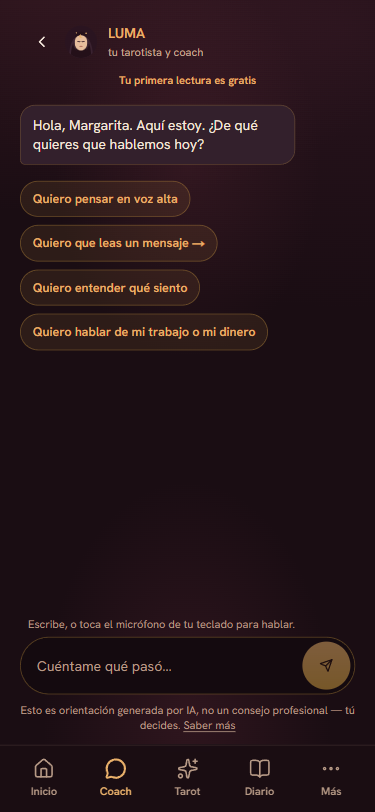
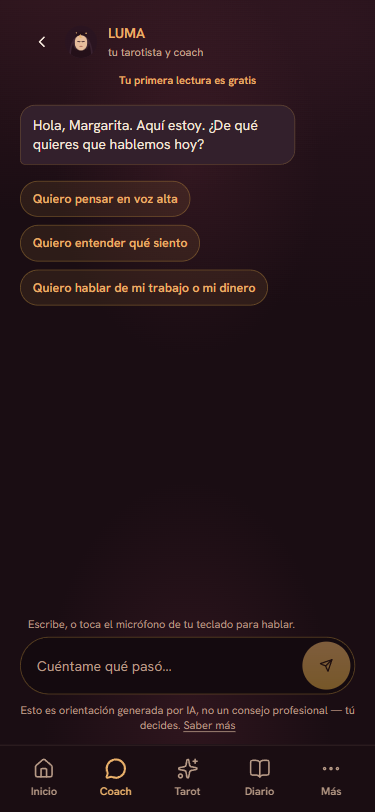
fix(coach): quitar la frase 'Quiero que leas un mensaje' que repetía Descifrar

Changed region(s): [[0.088, 0.2771, 0.704, 0.431], [0.704, 0.3387, 0.7333, 0.3695]]

diff --git a/lib/coach-saludo.ts b/lib/coach-saludo.ts
@@ -21,7 +21,6 @@ const GENERICA: ApeturaCoach = {
   saludo: 'Aquí estoy. ¿De qué quieres que hablemos hoy?',
   arranques: [
     'Quiero pensar en voz alta',
-    { texto: 'Quiero que leas un mensaje', href: '/app/descifrar' },
     'Quiero entender qué siento',
     'Quiero hablar de mi trabajo o mi dinero',
   ],

diff --git a/ESTADO.md b/ESTADO.md
@@ -1051,3 +1051,5 @@ sabemos / qué observamos / posible riesgo / pregunta para ti / qué podrías re
 🔄 2026-10-15: Mapa de poder — se quitó el aviso "Hemos ampliado tu mapa" (solo la dueña tenía mapa). Un mapa antiguo se trata como sin calcular: muestra el formulario con su nombre y fecha y un toque genera el mapa completo. Sin tarjetas antiguas. Sin publicar.
 
 🔄 2026-10-15: Coach — botón "Necesito desahogarme" → "Quiero pensar en voz alta" (coherente con el cambio del 13-oct) y el saludo mide lo que necesita (antes ocupaba medio pantalla vacía). Captura coach-saludo-375. Sin publicar.
+
+🔄 2026-10-15: Coach — frases de arranque FINALES (3): "Quiero pensar en voz alta", "Quiero entender qué siento", "Quiero hablar de mi trabajo o mi dinero". Se quitó "Quiero que leas un mensaje" (ya lo hace Descifrar y se repetía; la dueña lo había pedido: quitar "No sé qué responderle" porque la coach lo hace al leer el mensaje — yo lo había cambiado por error por una puerta a Descifrar). Sin publicar.
